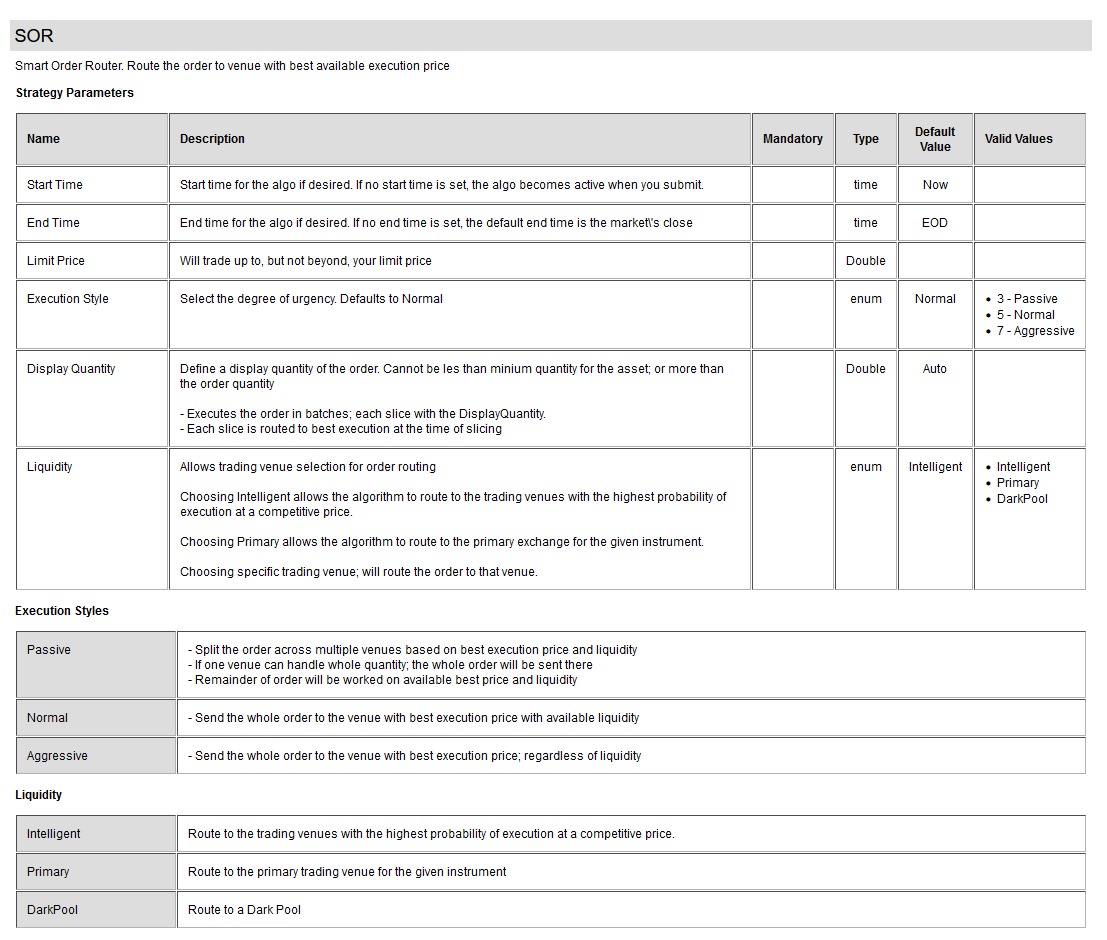
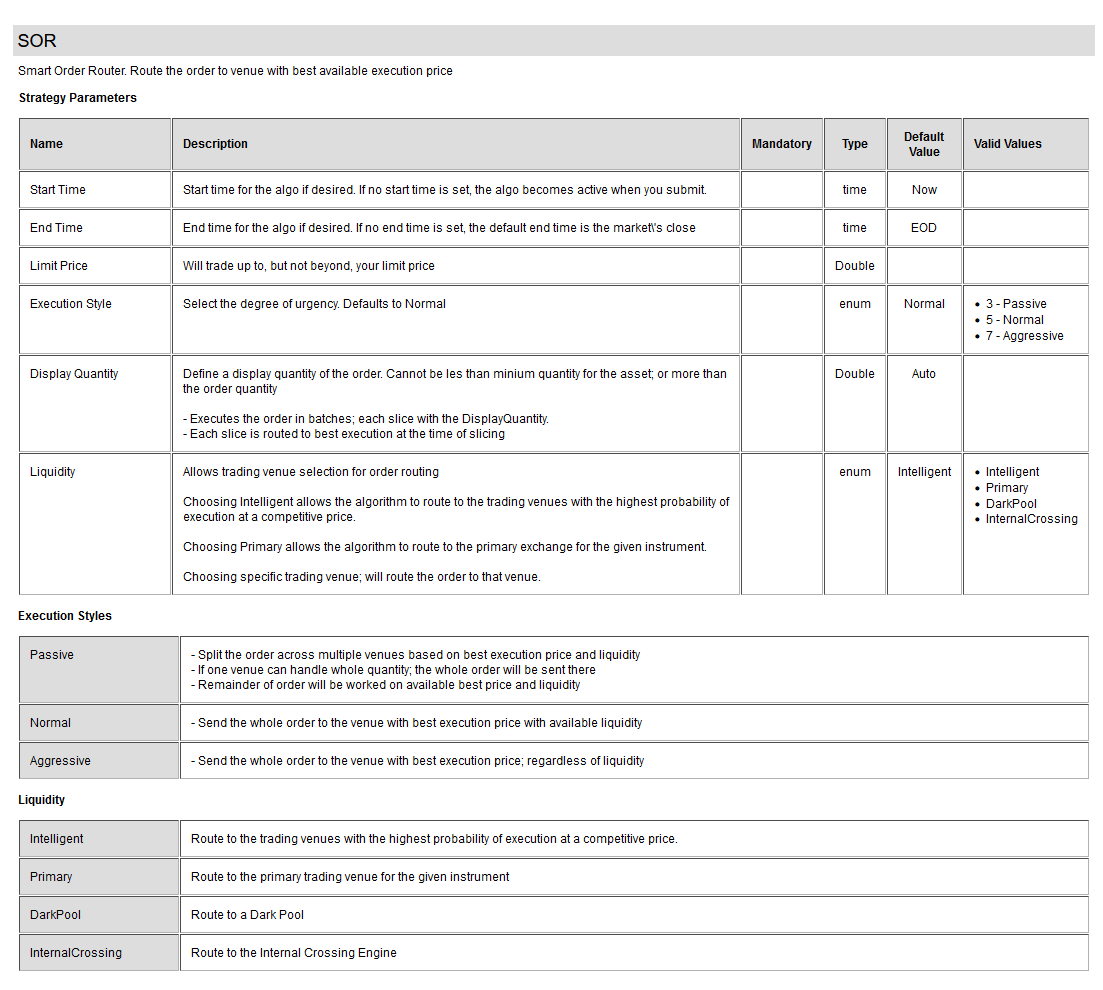
Dark strategy

Changed region(s): [[0.0, 0.0, 0.9864, 0.9872], [0.0, 0.4628, 0.0925, 0.5245], [0.9864, 0.0309, 1.0, 0.0617]]

diff --git a/docs/DARK-strategy.md b/docs/DARK-strategy.md
@@ -1,0 +1,13 @@
+# DARK Strategy
+
+Route the order to the selected Dark Pool or Internal Crossing Engine 
+
+#### Strategy Detail
+![plot](images/DARK-strategy.png)
+
+##### Note
+To view up-to-date information about this strategy; and other strategies; visit this website:
+
+[http://liquidalpha.mywire.org:8080/algos.jsp](http://liquidalpha.mywire.org:8080/algos.jsp)
+
+

diff --git a/README.md b/README.md
@@ -39,6 +39,8 @@ Variety of fully working algorithms are demonstrated in this project:
 
 [SOR strategy](docs/SOR-strategy.md)
 
+[DARK strategy](docs/DARK-strategy.md)
+
 [DMA strategy](docs/DMA-strategy.md)
 
 
